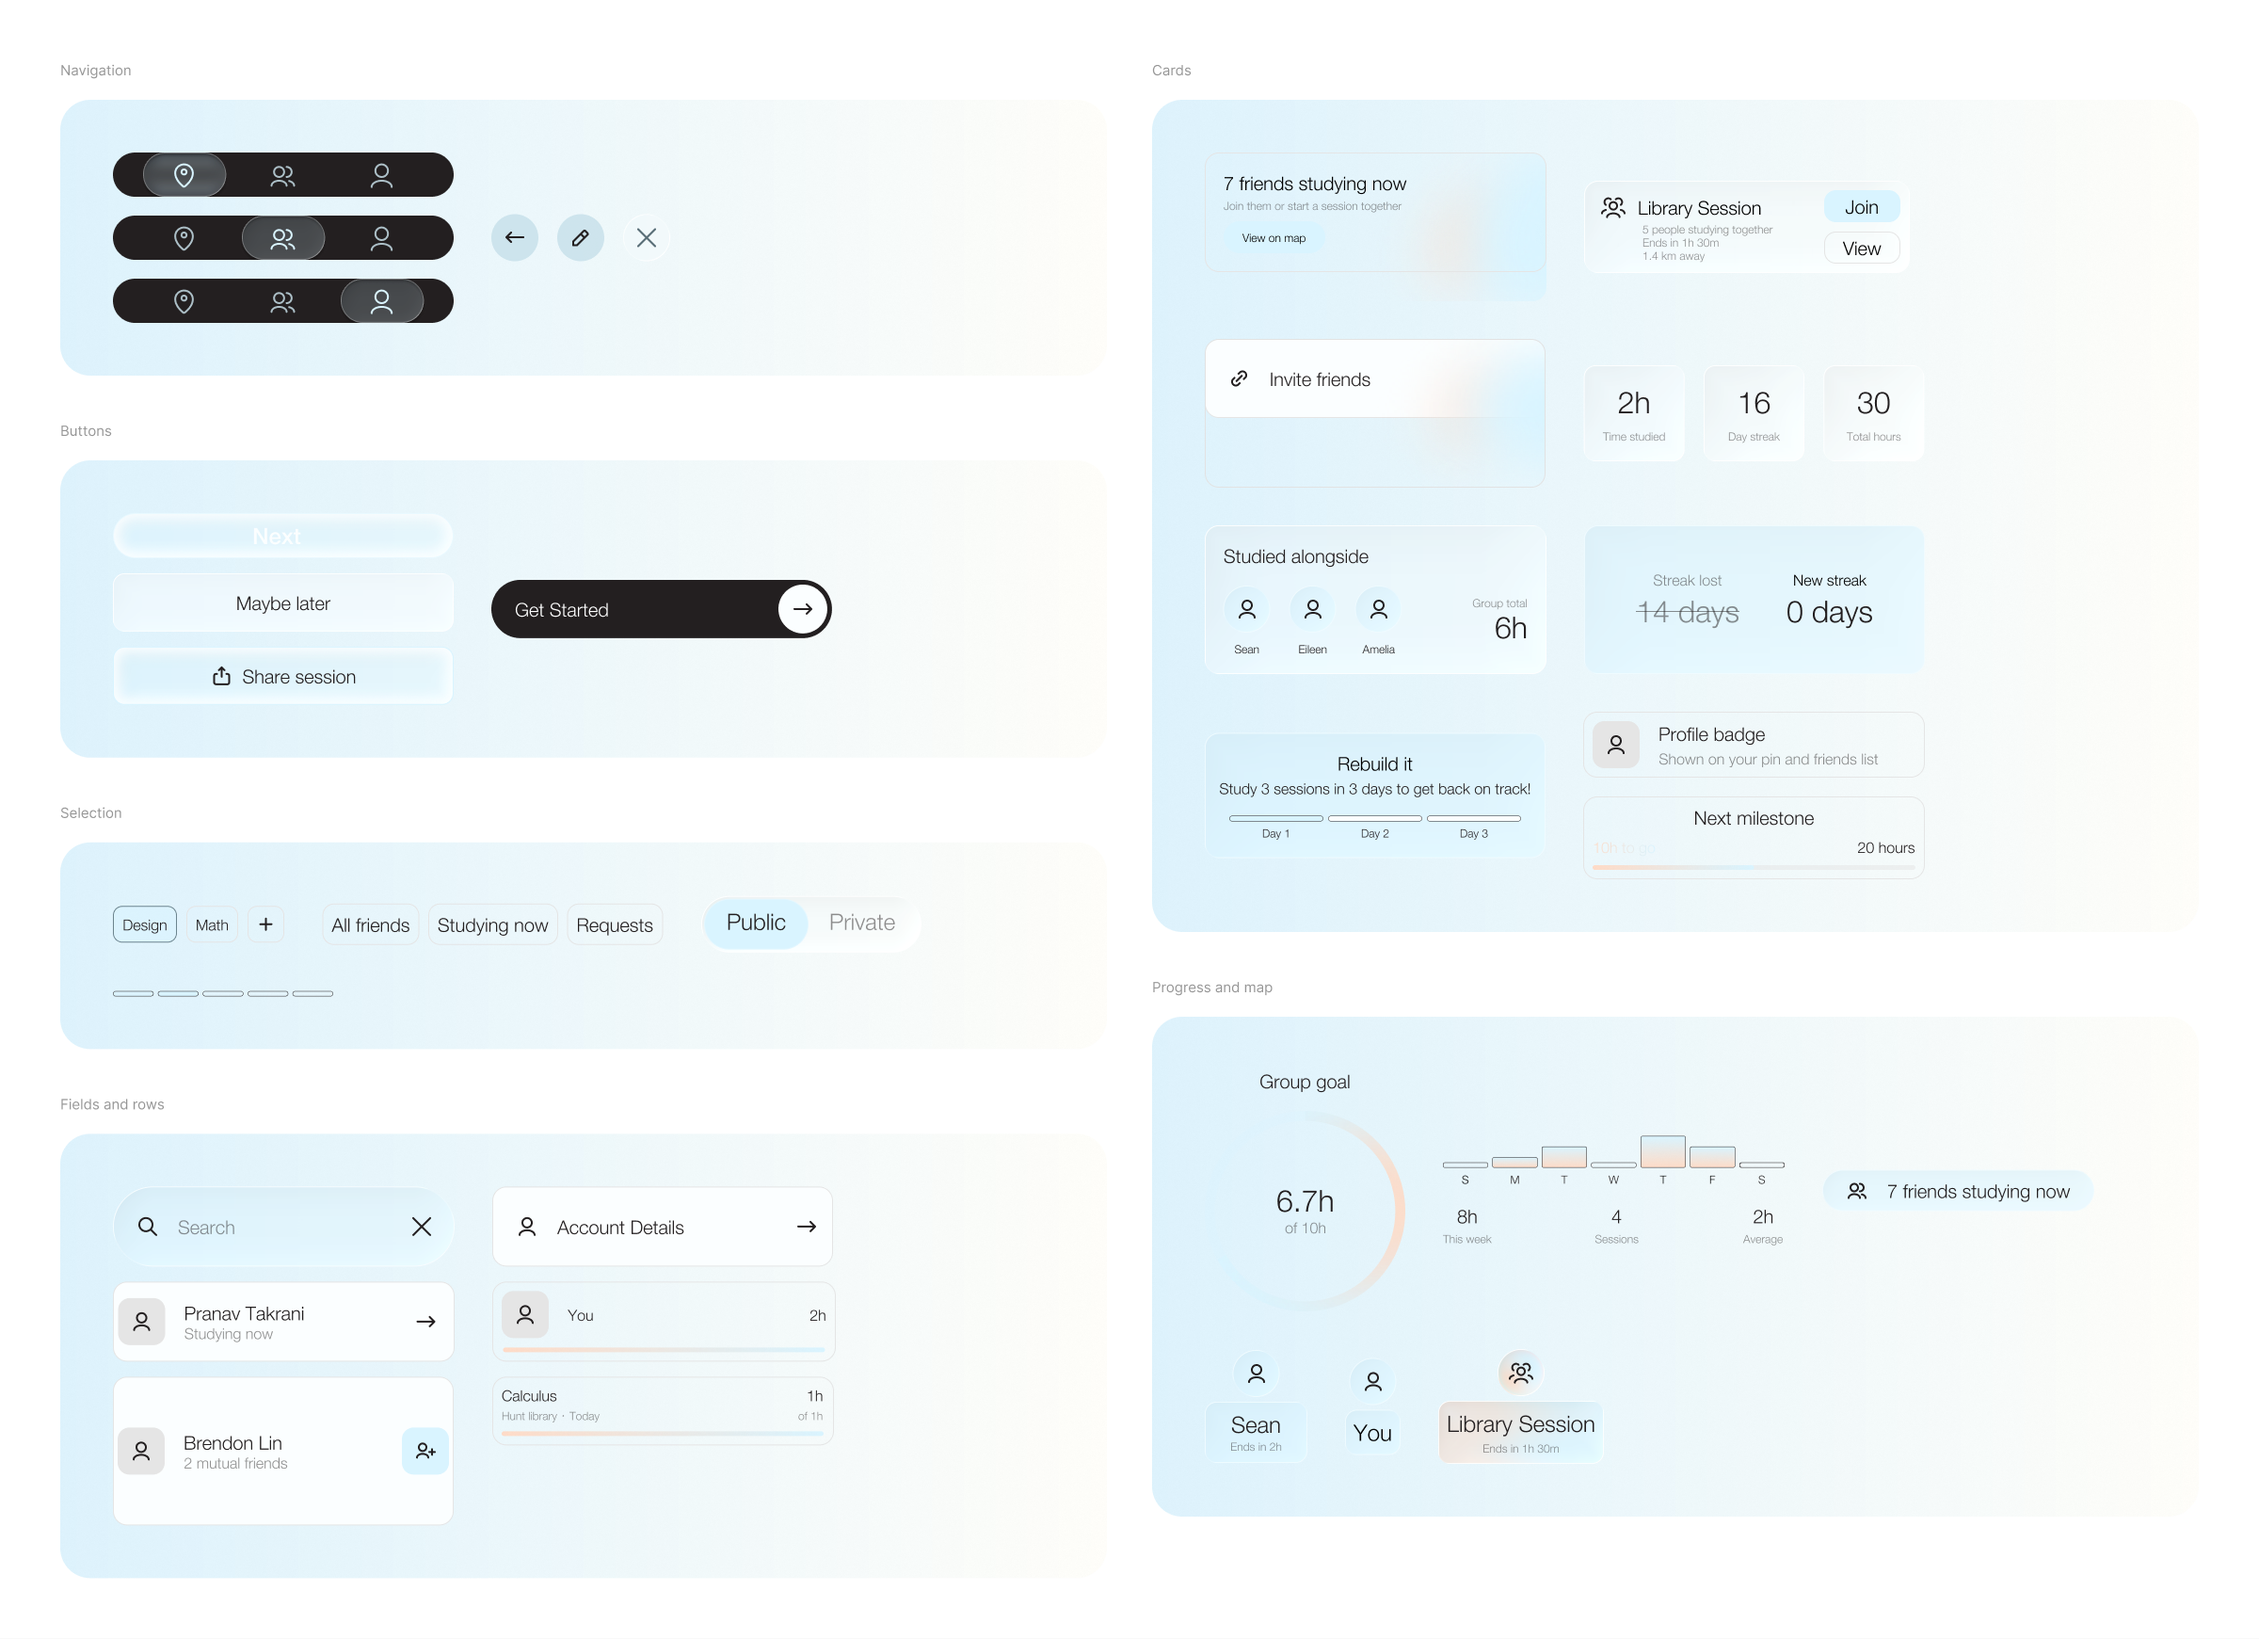
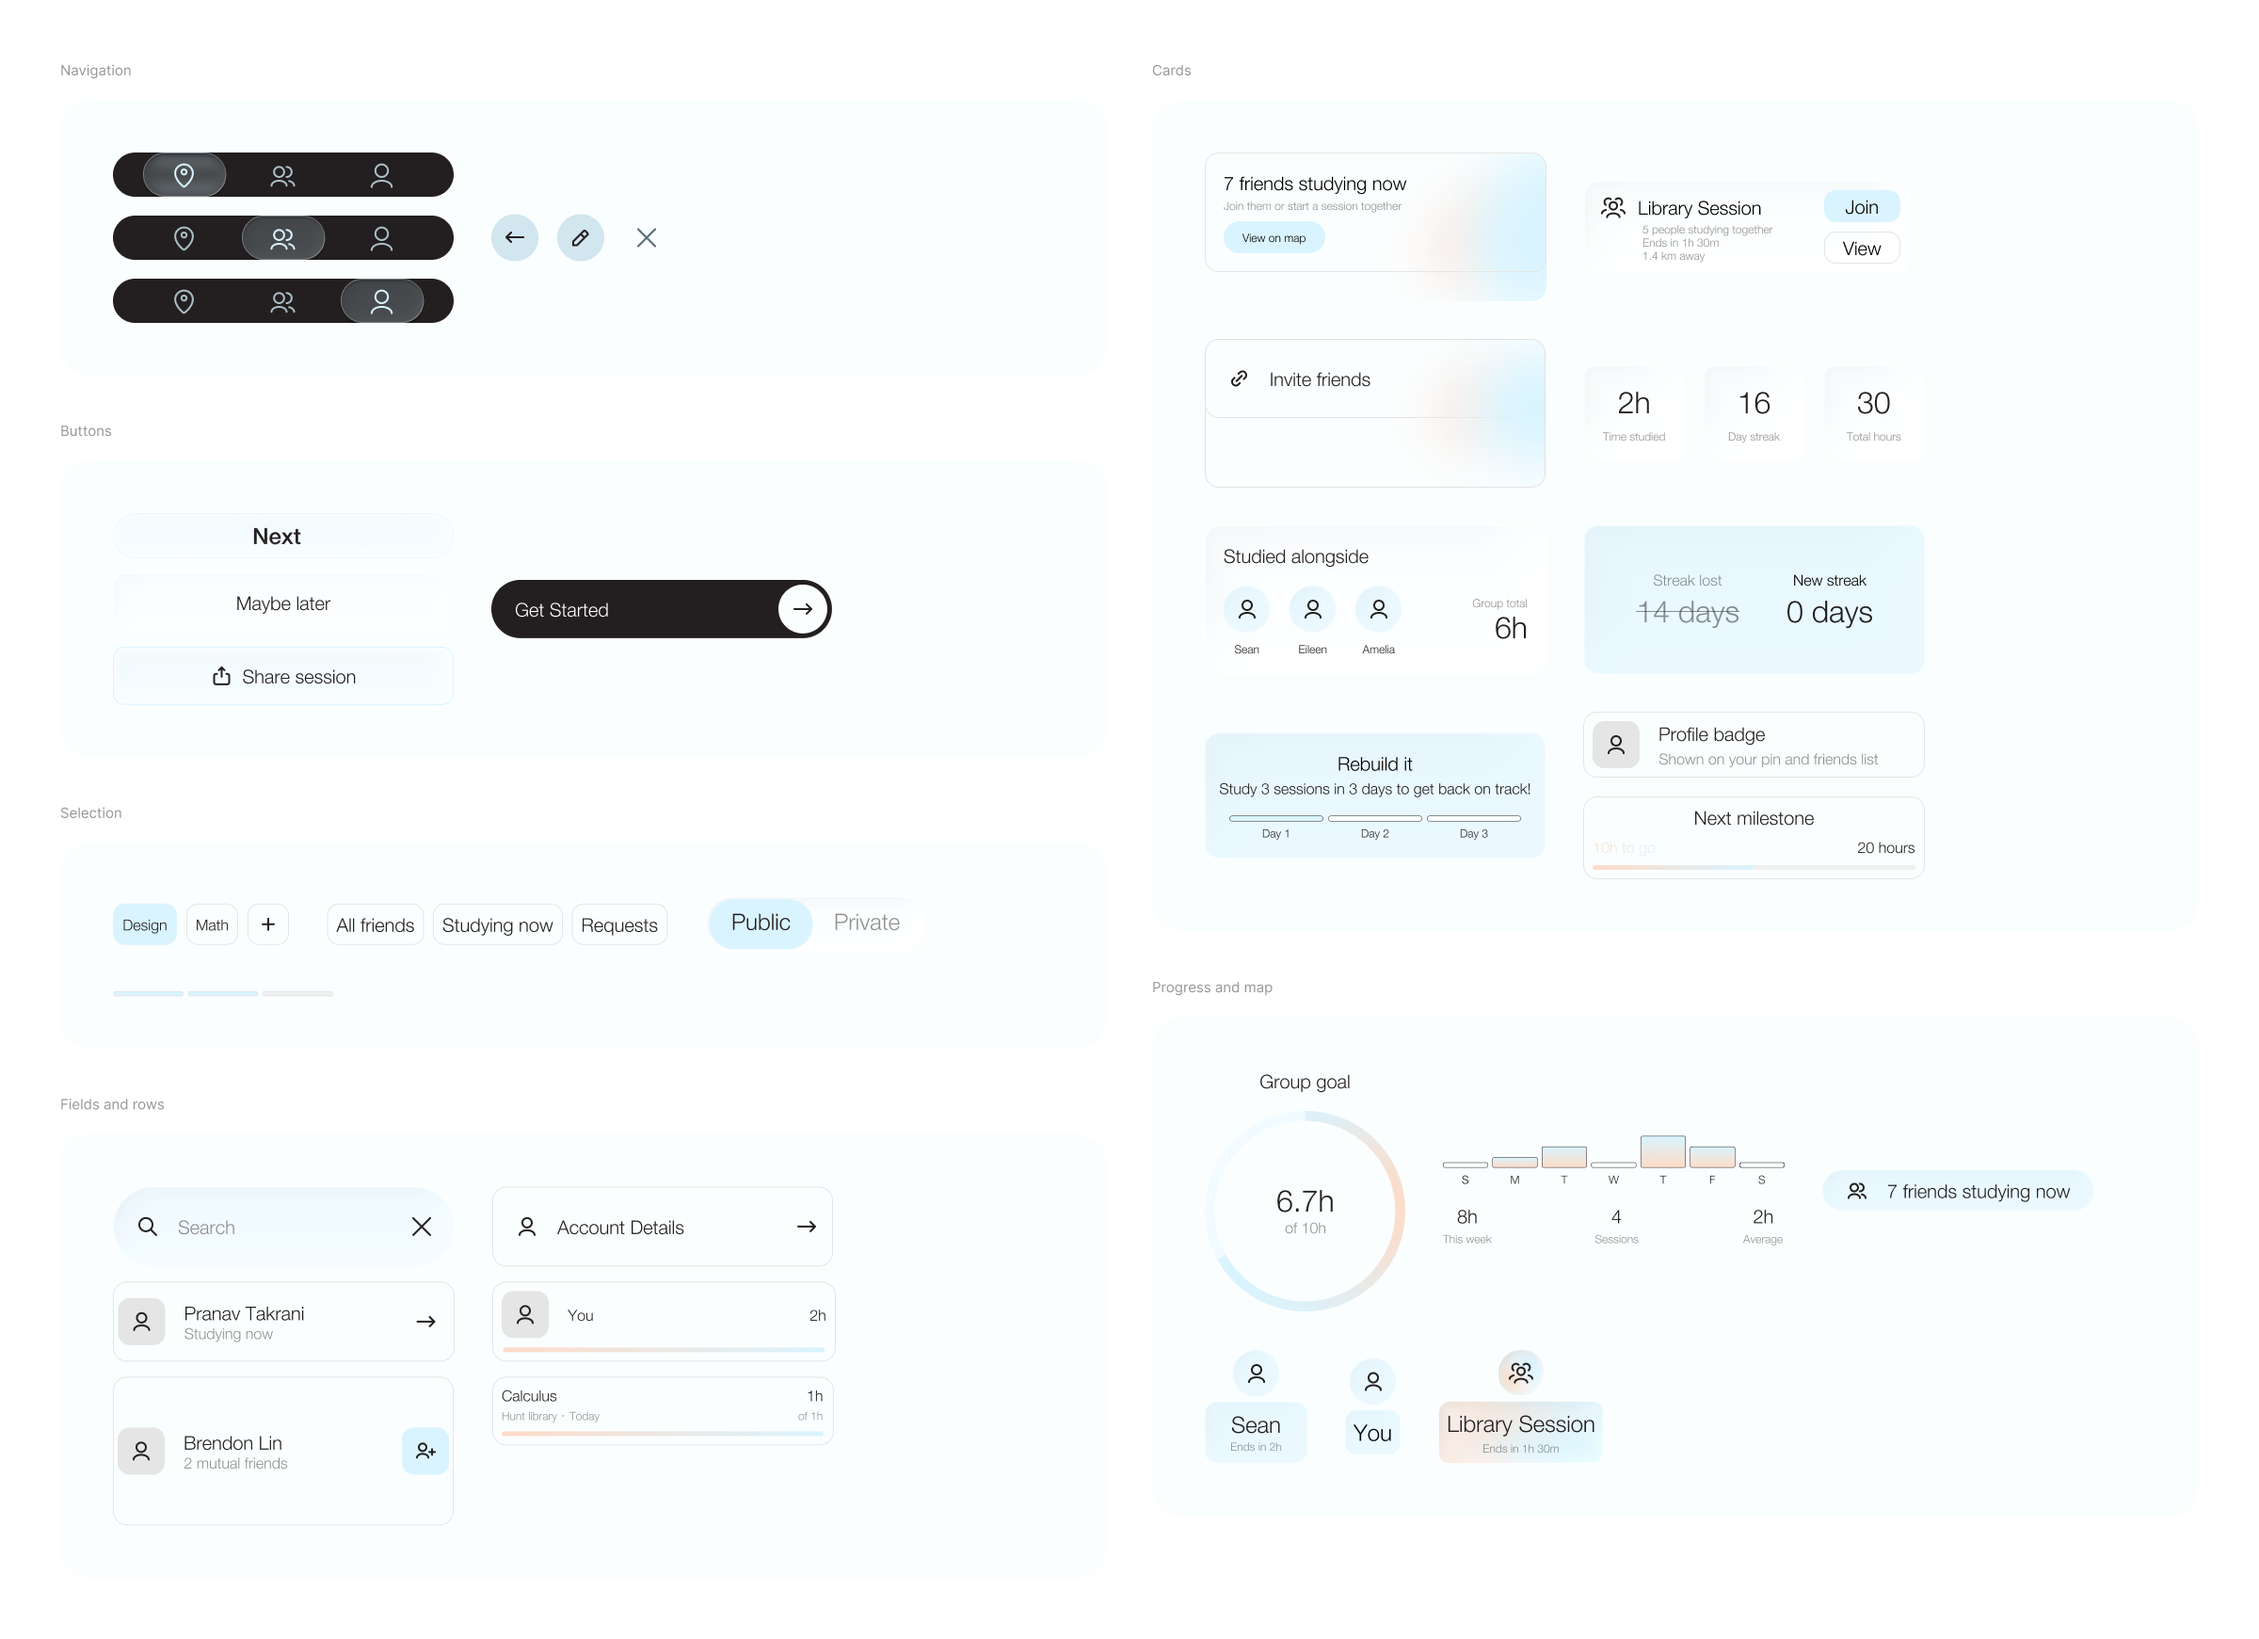
Update the Sessions component sheets to the latest prototype
Ink button label, 44px chips, three onboarding steps, the paler session
name field, the timer's bright glass rim with deep labels and the end
button, the final screens' slate light, and the greeting over the field.

diff --git a/work/sessions.html b/work/sessions.html
@@ -203,7 +203,7 @@
         <figcaption class="pos-state__cap">Components, on the colours they sit on</figcaption>
       </figure>
       <figure class="pos-state">
-        <a class="pos-plate" href="../images/sessions/kit/timer.png" data-viewer data-cursor="view"><img loading="lazy" decoding="async" src="../images/sessions/kit/timer.png" width="2400" height="1028" alt="The timer's parts on its slate light: the session name tag, the running time with its progress dots, studying alongside and pause; the public or private switch, the hours, the dial and the Go slider; and the session name field" /></a>
+        <a class="pos-plate" href="../images/sessions/kit/timer.png" data-viewer data-cursor="view"><img loading="lazy" decoding="async" src="../images/sessions/kit/timer.png" width="2860" height="2004" alt="The timer’s three screens as components: the session name tag, the running time with its progress dots, studying alongside, pause and the end button; the public or private switch, the hours, the dial and the Go slider; and the greeting over the session name field" /></a>
         <figcaption class="pos-state__cap">The timer, on its own dark background</figcaption>
       </figure>
     </div>
